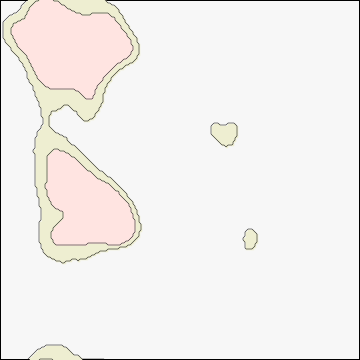
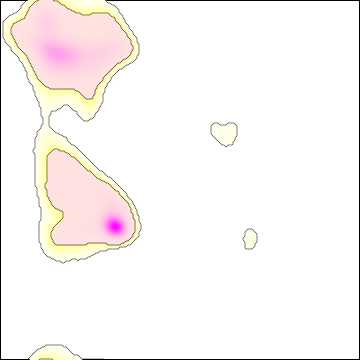
Gradient colouring for Ramachandran plots
Rama plots are gradient coloured bsaed on probabilities. Scaled to max
probability of each plot. Using a linear gradient.

diff --git a/src/rama_plot.cc b/src/rama_plot.cc
@@ -680,9 +680,9 @@ coot::rama_plot::draw_it(mmdb::Manager *mol, int SelHnd, int primary) {
 }
 
 void
-coot::rama_plot::setup_background(bool blocks, bool isolines) {
+coot::rama_plot::setup_background(bool blocks, bool isolines, bool print_image) {
 
-   int take_bg_image = 0;
+   int take_bg_image = 1;
 
 #ifdef HAVE_GOOCANVAS
 
@@ -690,41 +690,43 @@ coot::rama_plot::setup_background(bool blocks, bool isolines) {
    bg_gly = goo_canvas_group_new(root, NULL);
    bg_pro = goo_canvas_group_new(root, NULL);
    bg_non_gly_pro = goo_canvas_group_new(root, NULL);
+#ifdef CLIPPER_HAS_TOP8000
+   bg_ileval = goo_canvas_group_new(root, NULL);
+   bg_pre_pro = goo_canvas_group_new(root, NULL);
+   bg_non_gly_pro_pre_pro_ileval = goo_canvas_group_new(root, NULL);
+#endif
 
    // if default we use images otherwise we make blocks
 
-   // use a pre-made rama picture if we have standard settings,
-   // otherwise make a block background to specifications
-   if (fabs(rama_threshold_preferred - 0.02) < 0.000001 &&
-       fabs(rama_threshold_allowed - 0.002) < 0.000001 &&
-       psi_axis_mode == PSI_CLASSIC)
-   {
+   if (!print_image) {
+      // use a pre-made rama picture if we have standard settings,
+      // otherwise make a block background to specifications
+      if (fabs(rama_threshold_preferred - 0.02) < 0.000001 &&
+          fabs(rama_threshold_allowed - 0.002) < 0.000001 &&
+          psi_axis_mode == PSI_CLASSIC)
+      {
 #ifdef CLIPPER_HAS_TOP8000
-      bg_ileval = goo_canvas_group_new(root, NULL);
-      bg_pre_pro = goo_canvas_group_new(root, NULL);
-      bg_non_gly_pro_pre_pro_ileval = goo_canvas_group_new(root, NULL);
-
-      take_bg_image = make_background_from_image(rama, bg_all, "rama2_all.png");
-      take_bg_image += make_background_from_image(r_gly, bg_gly, "rama2_gly.png");
-      take_bg_image += make_background_from_image(r_pro, bg_pro, "rama2_pro.png");
-      take_bg_image += make_background_from_image(r_non_gly_pro, bg_non_gly_pro,
-                                 "rama2_non_gly_pro.png");
-      take_bg_image += make_background_from_image(r_ileval, bg_ileval,
-                                                  "rama2_ileval.png");
-      take_bg_image += make_background_from_image(r_pre_pro, bg_pre_pro,
-                                                  "rama2_pre_pro.png");
-      take_bg_image += make_background_from_image(r_non_gly_pro_pre_pro_ileval,
-                                                  bg_non_gly_pro_pre_pro_ileval,
-                                                  "rama2_non_gly_pro_pre_pro_ileval.png");
+         take_bg_image = make_background_from_image(rama, bg_all, "rama2_all.png");
+         take_bg_image += make_background_from_image(r_gly, bg_gly, "rama2_gly.png");
+         take_bg_image += make_background_from_image(r_pro, bg_pro, "rama2_pro.png");
+         take_bg_image += make_background_from_image(r_non_gly_pro, bg_non_gly_pro,
+                                                     "rama2_non_gly_pro.png");
+         take_bg_image += make_background_from_image(r_ileval, bg_ileval,
+                                                     "rama2_ileval.png");
+         take_bg_image += make_background_from_image(r_pre_pro, bg_pre_pro,
+                                                     "rama2_pre_pro.png");
+         take_bg_image += make_background_from_image(r_non_gly_pro_pre_pro_ileval,
+                                                     bg_non_gly_pro_pre_pro_ileval,
+                                                     "rama2_non_gly_pro_pre_pro_ileval.png");
 #else
-      take_bg_image = make_background_from_image(rama, bg_all, "rama_all.png");
-      take_bg_image += make_background_from_image(r_gly, bg_gly, "rama_gly.png");
-      take_bg_image += make_background_from_image(r_pro, bg_pro, "rama_pro.png");
-      take_bg_image += make_background_from_image(r_non_gly_pro, bg_non_gly_pro,
-                                 "rama_non_gly_pro.png");
+         take_bg_image = make_background_from_image(rama, bg_all, "rama_all.png");
+         take_bg_image += make_background_from_image(r_gly, bg_gly, "rama_gly.png");
+         take_bg_image += make_background_from_image(r_pro, bg_pro, "rama_pro.png");
+         take_bg_image += make_background_from_image(r_non_gly_pro, bg_non_gly_pro,
+                                                     "rama_non_gly_pro.png");
 #endif
+      }
    }
-
    // no bg done, so lets make the "classic" way
    if (take_bg_image) {
       // do at least one:
@@ -763,6 +765,31 @@ coot::rama_plot::setup_background(bool blocks, bool isolines) {
 }
 
 #ifdef HAVE_GOOCANVAS
+
+// return the merge colour based on start and end colour as well as probability
+// in c++11 array<int, 5> fillarr(int arr[])
+guint
+coot::rama_plot::get_intermediate_bg_colour(guint start_colour[4],
+guint end_colour[4], float prob_min, float prob_max, float probability) {
+
+   static guint new_colour[4];
+   float x;
+   guint rgba_bg;
+
+   x = (probability - prob_min) / (prob_max - prob_min);
+
+   for (unsigned int i=0; i<4; i++) {
+      new_colour[i] = (int)((1. - x) * (float)start_colour[i] +
+                            x * (float)end_colour[i]);
+   }
+
+   // do some byte shift
+   rgba_bg = (new_colour[0] << 24) + (new_colour[1] << 16) +
+         (new_colour[2] << 8) + new_colour[3];
+
+   return rgba_bg;
+}
+
 // pass Ramachandran by type, e.g. r_gly...
 void
 coot::rama_plot::make_background(const clipper::Ramachandran rama_type,
@@ -776,6 +803,9 @@ coot::rama_plot::make_background(const clipper::Ramachandran rama_type,
    std::string colour;
    int start_angle;
    int end_angle;
+   guint bg_colour_rgba;
+   float prob_max;
+
 
    if (psi_axis_mode == PSI_CLASSIC) {
       start_angle = -180.0;
@@ -783,6 +813,19 @@ coot::rama_plot::make_background(const clipper::Ramachandran rama_type,
    } else {
       start_angle = -240.0;
       end_angle = 120.0;
+   }
+
+   // find max probability of plot
+   float max_prob = 0.;
+   float prob;
+   for (float i= -180.0; i<180.0; i += step) {
+      for (float j= start_angle; j<end_angle; j += step) {
+         x =  clipper::Util::d2rad(i+((float) step)/2.0);
+         y =  clipper::Util::d2rad(-(j+((float) step)/2.0));
+          prob = rama_type.probability(x,y);
+          if (prob > max_prob)
+             max_prob = prob;
+      }
    }
 
    for (float i= -180.0; i<180.0; i += step) {
@@ -803,13 +846,21 @@ coot::rama_plot::make_background(const clipper::Ramachandran rama_type,
             colour = "LightSalmon";
             colour = "MistyRose";
 
+            guint bg_colour_start [4] = {255, 228, 225, 255}; // misty rose
+            guint bg_colour_end [4] = {255, 0, 255, 255};
+
+            bg_colour_rgba = get_intermediate_bg_colour(bg_colour_start, bg_colour_end,
+                                                        rama_threshold_preferred,
+                                                        max_prob,
+                                                        rama_type.probability(x,y));
+
             item = goo_canvas_rect_new(bg_group,
                                        i+0.0,
                                        j+0.0,
                                        step+0.0,
                                        step+0.0,
-                                       "fill-color", colour.c_str(),
-                                       "stroke-color", colour.c_str(),
+                                       "fill-color-rgba", bg_colour_rgba,
+                                       "stroke-color-rgba", bg_colour_rgba,
                                        "line-width", 0.5,
                                        NULL);
          } else {
@@ -823,13 +874,22 @@ coot::rama_plot::make_background(const clipper::Ramachandran rama_type,
                colour = "LemonChiffon";
                colour = "LightYellow2";
 
+//               guint bg_colour_start2 [4] = {255, 255, 153, 255}; // LightYellow2
+               guint bg_colour_start2 [4] = {255, 255, 240, 255};
+               guint bg_colour_end2 [4] = {255, 255, 140, 255};
+
+               bg_colour_rgba = get_intermediate_bg_colour(bg_colour_start2, bg_colour_end2,
+                                                           rama_threshold_allowed,
+                                                           rama_threshold_preferred,
+                                                           rama_type.probability(x,y));
+
                item = goo_canvas_rect_new(bg_group,
                                           i+0.0,
                                           j+0.0,
                                           step+0.0,
                                           step+0.0,
-                                          "fill-color", colour.c_str(),
-                                          "stroke-color", colour.c_str(),
+                                          "fill-color-rgba", bg_colour_rgba,
+                                          "stroke-color-rgba", bg_colour_rgba,
                                           "line-width",0.5,
                                           NULL);
             }
@@ -837,6 +897,7 @@ coot::rama_plot::make_background(const clipper::Ramachandran rama_type,
          }
       }
    }
+
 }
 #endif
 
@@ -1227,9 +1288,10 @@ coot::rama_plot::basic_white_underlay() {
             corner,
             360.0,
             360.0,
-            "fill-color", "grey97",
+            "fill-color", "white",
             "stroke-color", "black",
             NULL);  
+   // 12/12/18 was grey97
    // orig grey 90; grey 100 is white; 95 was good
 
 #endif
@@ -3381,7 +3443,7 @@ coot::rama_plot::make_bg_images() {
 
    std::string fn;
    clear_canvas_items(1);
-   setup_background();
+   setup_background(1, 1, 1);
 
    show_background(bg_all);
 //   fn = "rama_all.svg";
